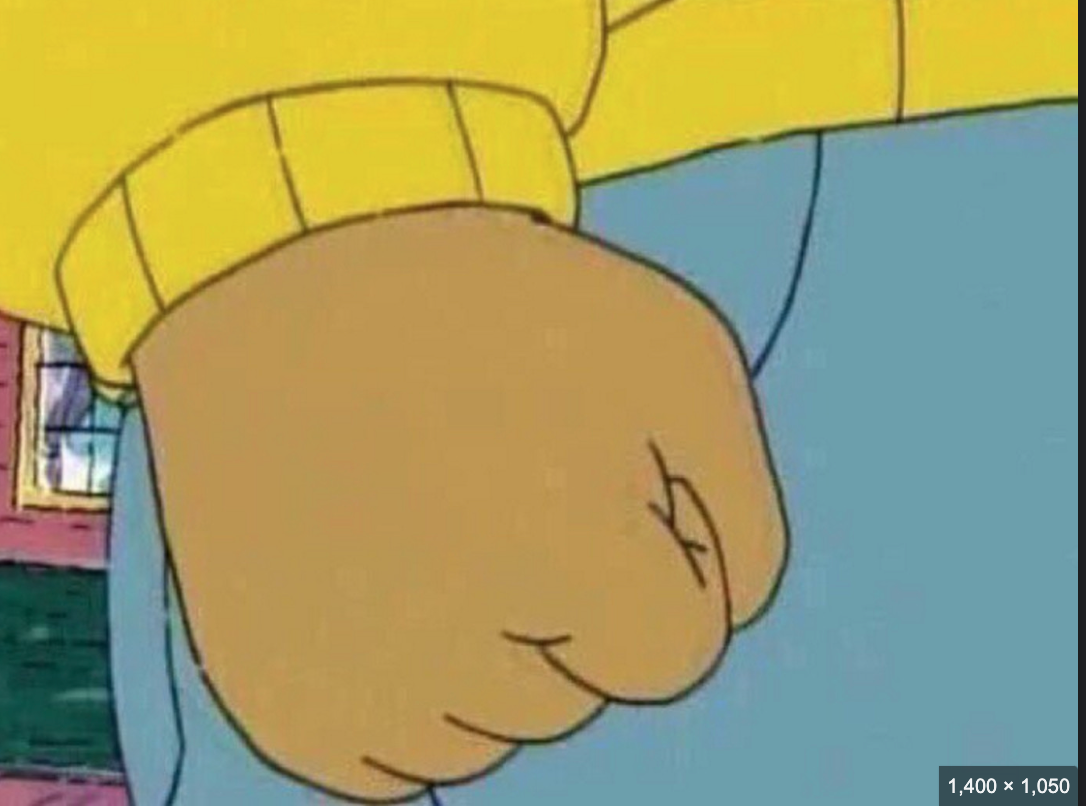
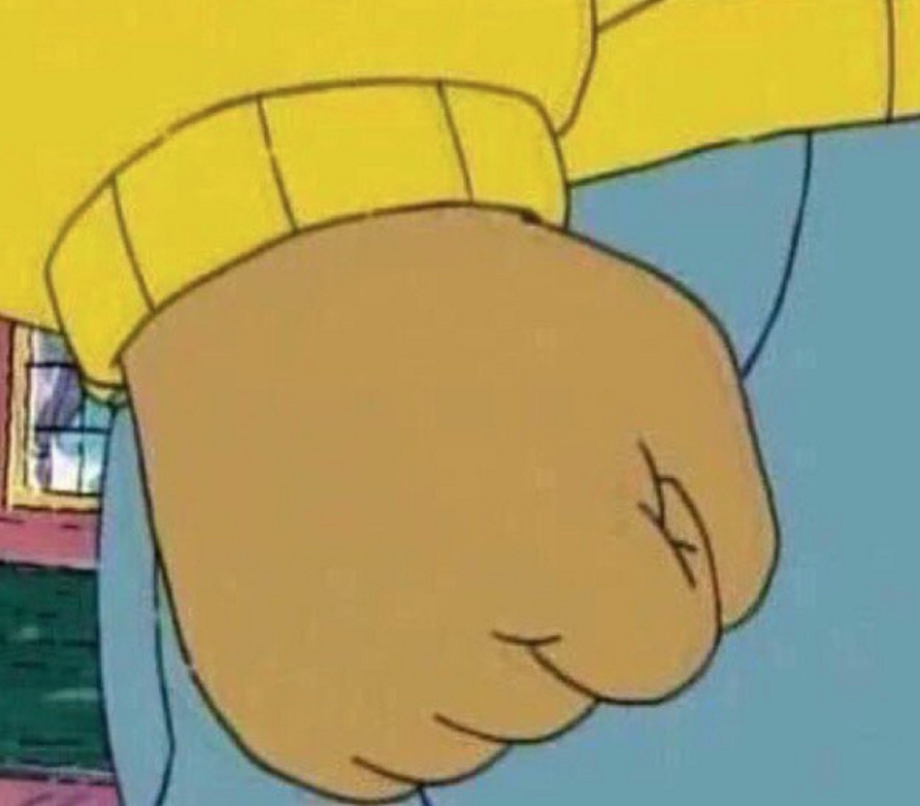
font and color changes

Changed region(s): [[0.0, 0.0, 1.0, 1.0], [0.3957, 0.8685, 0.4261, 0.8995]]

diff --git a/wa/wa7/wa7.css b/wa/wa7/wa7.css
@@ -2,17 +2,17 @@ body{
     display: flex;
     flex-direction: column;
     align-items: center;
-    color: blue;
+    color: orangered;
     background-color: rgb(205, 241, 255);
-    font-family: Impact, Haettenschweiler, 'Arial Narrow Bold', sans-serif;
+    font-family:'Courier New' 'monospace' 'sans-serif';
 }
 nav{
-    height: 50vh;
+    height: 75vh;
     display:flex;
     flex-direction: row;
     justify-content: space-between;
-    height:20px;
-    background-color: blue;
+    height:30px;
+    background-color: orangered;
 }
 nav a{
     width:10vw;
@@ -24,27 +24,27 @@ nav a{
 
 nav a:hover{
     background-color: rgb(250, 245, 186);
-    color: blue;
+    color: orange;
 }
 
 img{
-    width:40vw;
-    height: 40vh;
+    width:60vw;
+    height: 50vh;
 }
 
 #red-ball{
-    background-color: blue;
-    width: 20px;
-    height:20px;
+    background-color: yellow;
+    width: 40px;
+    height:40px;
     border-radius: 50%;
     position: absolute;
-    left:5vw;
+    left:7vw;
     top:0;
-    transition-duration: 5s;
+    transition-duration: 3s;
 }
 
 #red-ball:hover{
     background-color: rgb(250, 245, 186);
-    width: 800px;
-    height: 800px;
+    width: 1000px;
+    height: 1000px;
 }

diff --git a/wa/wa7/wa7.html b/wa/wa7/wa7.html
@@ -4,7 +4,7 @@
     <meta charset="UTF-8">
     <meta http-equiv="X-UA-Compatible" content="IE=edge">
     <meta name="viewport" content="width=device-width, initial-scale=1.0">
-    <link rel="stylesheet" href="/CSS/wa7.css">
+    <link rel="stylesheet" href="wa7.css">
     <title>Dance Like Nav</title>
 </head>
 <body>
@@ -18,6 +18,6 @@
         <a href="#" class="button">More</a>
         <a href="#" class="button">Socials</a>
     </nav>
-    <img src="/img/arthurfist.png">
+    <img src="img/arthurfist.png">
 </body>
 </html>
